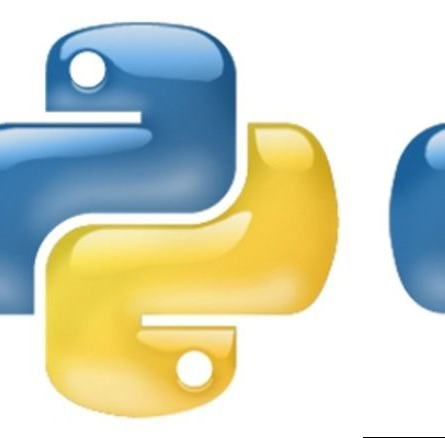
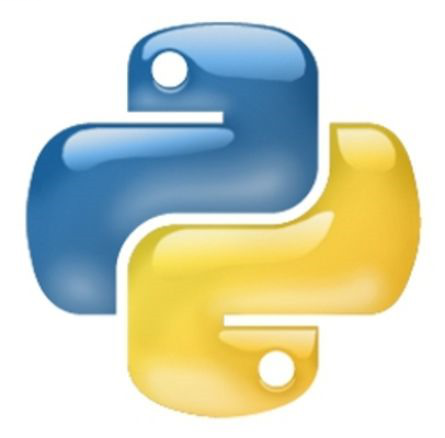
Fixed issue with image offset

diff --git a/imagesteg.py b/imagesteg.py
@@ -57,7 +57,7 @@ def encodeMessageInPixels(message, pixels, location):
         newB = (int(oldB, 2) & ~1) | 0
         newPix += (newB,)
     new_pixels.append(newPix)
-    for i in range(len(new_pixels) * 3, len(pixels)):
+    for i in range(len(new_pixels), len(pixels)):
         new_pixels.append(pixels[i])
     return new_pixels
         
@@ -83,13 +83,16 @@ def decodeMessageInPixels(pixels, location):
         i += 1
     return secMessage.rstrip("\0")
 
-width, height, pixels = getPixelsFromImage("python.jpg")
-message = "This is a test\0"
+def main():
+    width, height, pixels = getPixelsFromImage("python.jpg")
+    message = "This is a test\0"
 
-img2 = Image.new("RGB", (width, height))
-img2.putdata(encodeMessageInPixels(message, pixels, "ALL"))
-img2.save("python2.png")
+    img2 = Image.new("RGB", (width, height))
+    img2.putdata(encodeMessageInPixels(message, pixels, "ALL"))
+    img2.save("python2.png")
 
-width2, height2, pixels2 = getPixelsFromImage("python2.png")
+    width2, height2, pixels2 = getPixelsFromImage("python2.png")
 
-print "THE SECRET MESSAGE: " + str(decodeMessageInPixels(pixels2, "ALL"))
+    print "THE SECRET MESSAGE: " + str(decodeMessageInPixels(pixels2, "ALL"))
+    
+if __name__ == "__main__": main()
